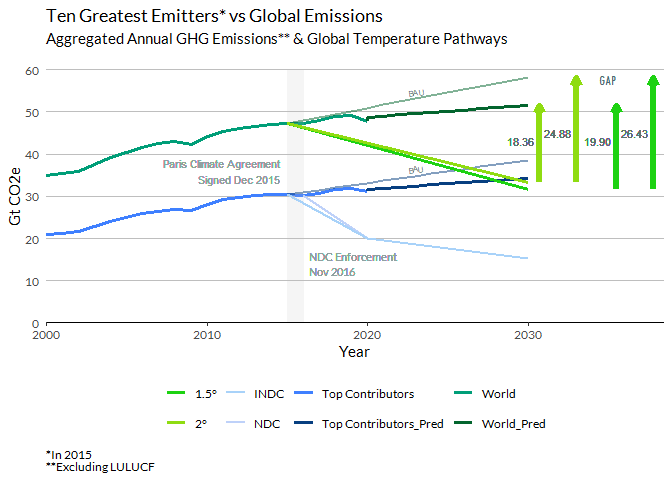
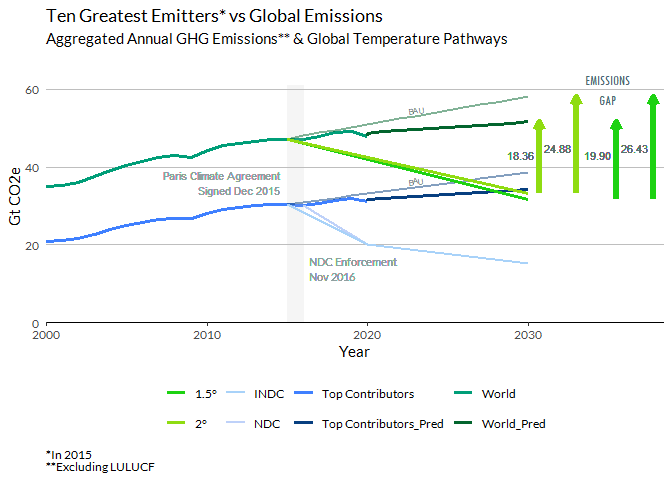
,

diff --git a/Missed-Benchmarks.md b/Missed-Benchmarks.md
@@ -789,7 +789,7 @@ plot_agg_10_n_world_2015_TWO <- df_agg_top_10_n_world_2015 %>%
             hjust = "right", size = 2.8, color = "#607070F1") +
   geom_text(aes(x = 2037.5, y = 45, label = "26.43", family = "Roboto Condensed"), 
             hjust = "right", size = 2.8, color = "#607070F1") +
-  coord_cartesian(xlim = c(2000, 2038.5), ylim = c(0, 60), expand = FALSE) +
+  coord_cartesian(xlim = c(2000, 2038.5), ylim = c(0, 65), expand = FALSE) +
   theme_classic() +
   scale_color_manual(values = mypalette3) +
   #scale_color_paletteer_d("palettetown::celebi") +
